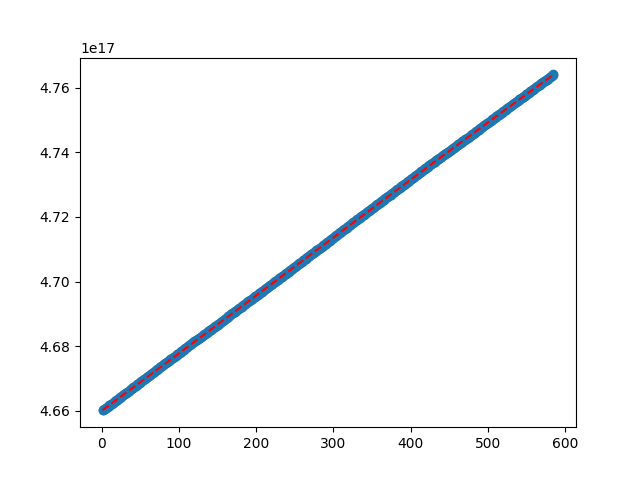
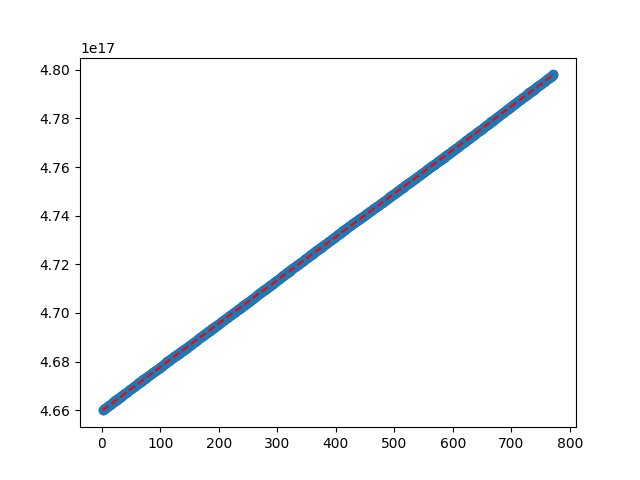
Update data, remove warnings

diff --git a/wenmerge.py b/wenmerge.py
@@ -5,10 +5,14 @@ from web3 import Web3
 import argparse 
 import time
 import os.path
+import warnings
+
+warnings.filterwarnings('ignore')
 
 #Choose web3 provider first, IPC is recommended 
 #web3 = Web3(Web3.IPCProvider("~/.ethereum/geth.ipc"))
 #web3 = Web3(Web3.HTTPProvider("http://127.0.0.1:8545"))
+web3 = Web3(Web3.HTTPProvider("https://bordel.xyz"))
 
 #If result.csv is not present, data will be crawled based on these parameters:
 start=14603000 #First block to start with 
